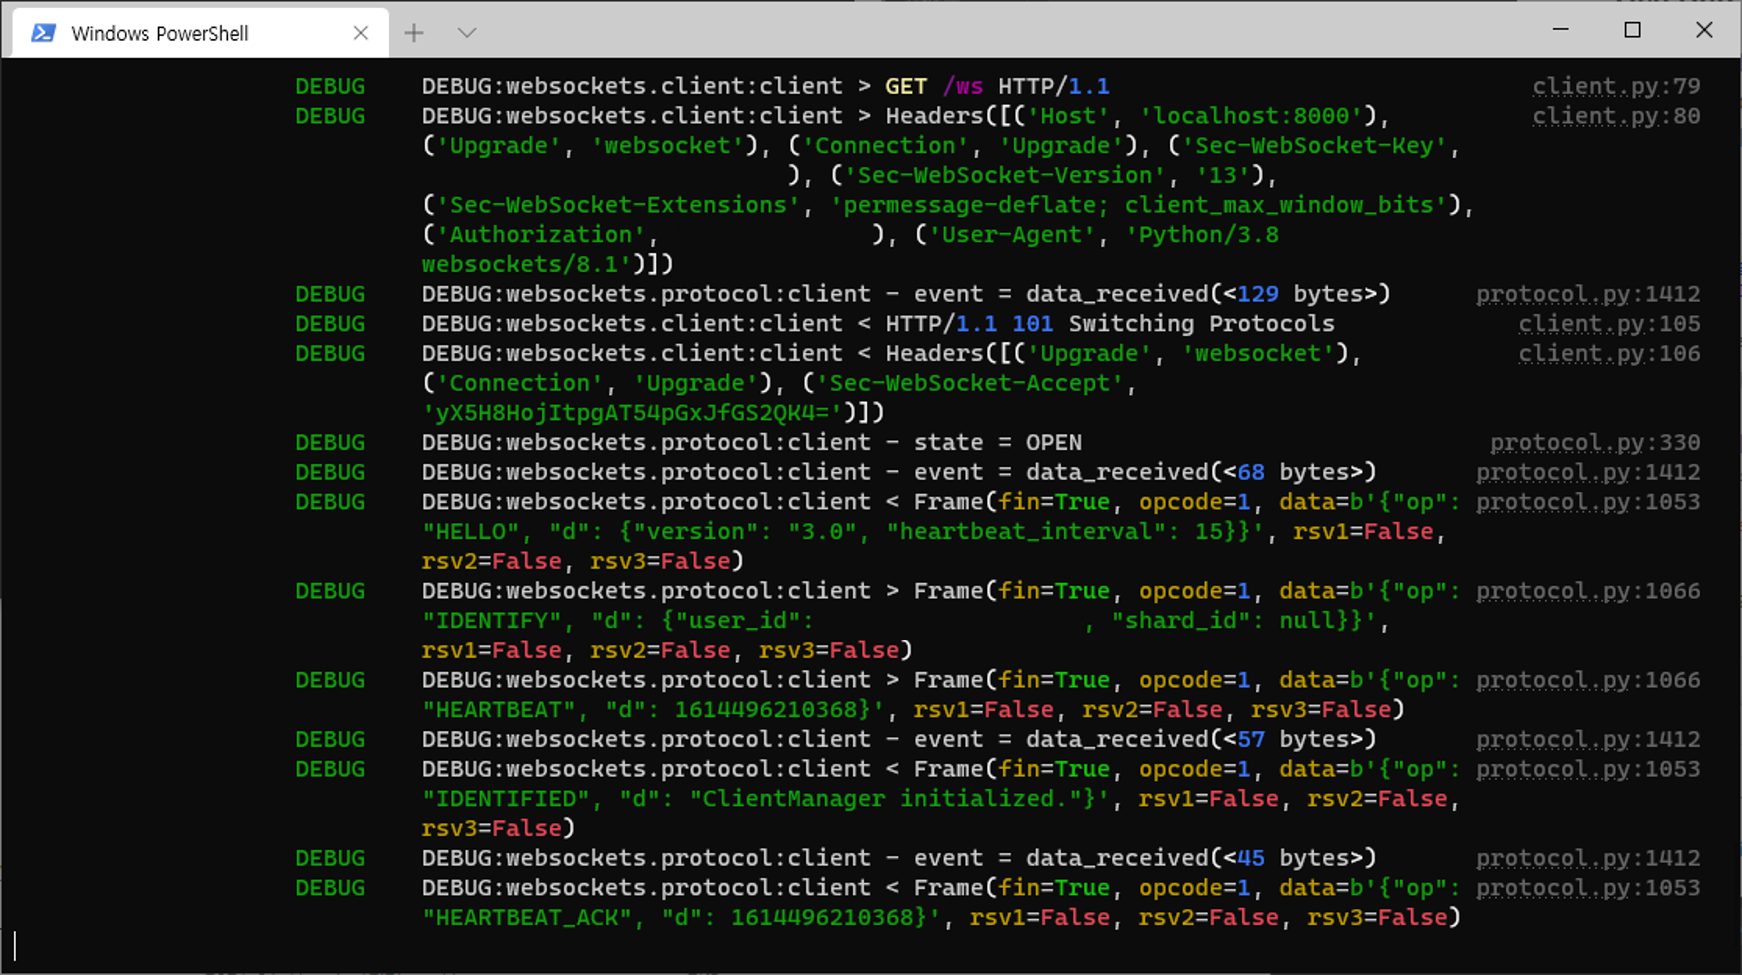
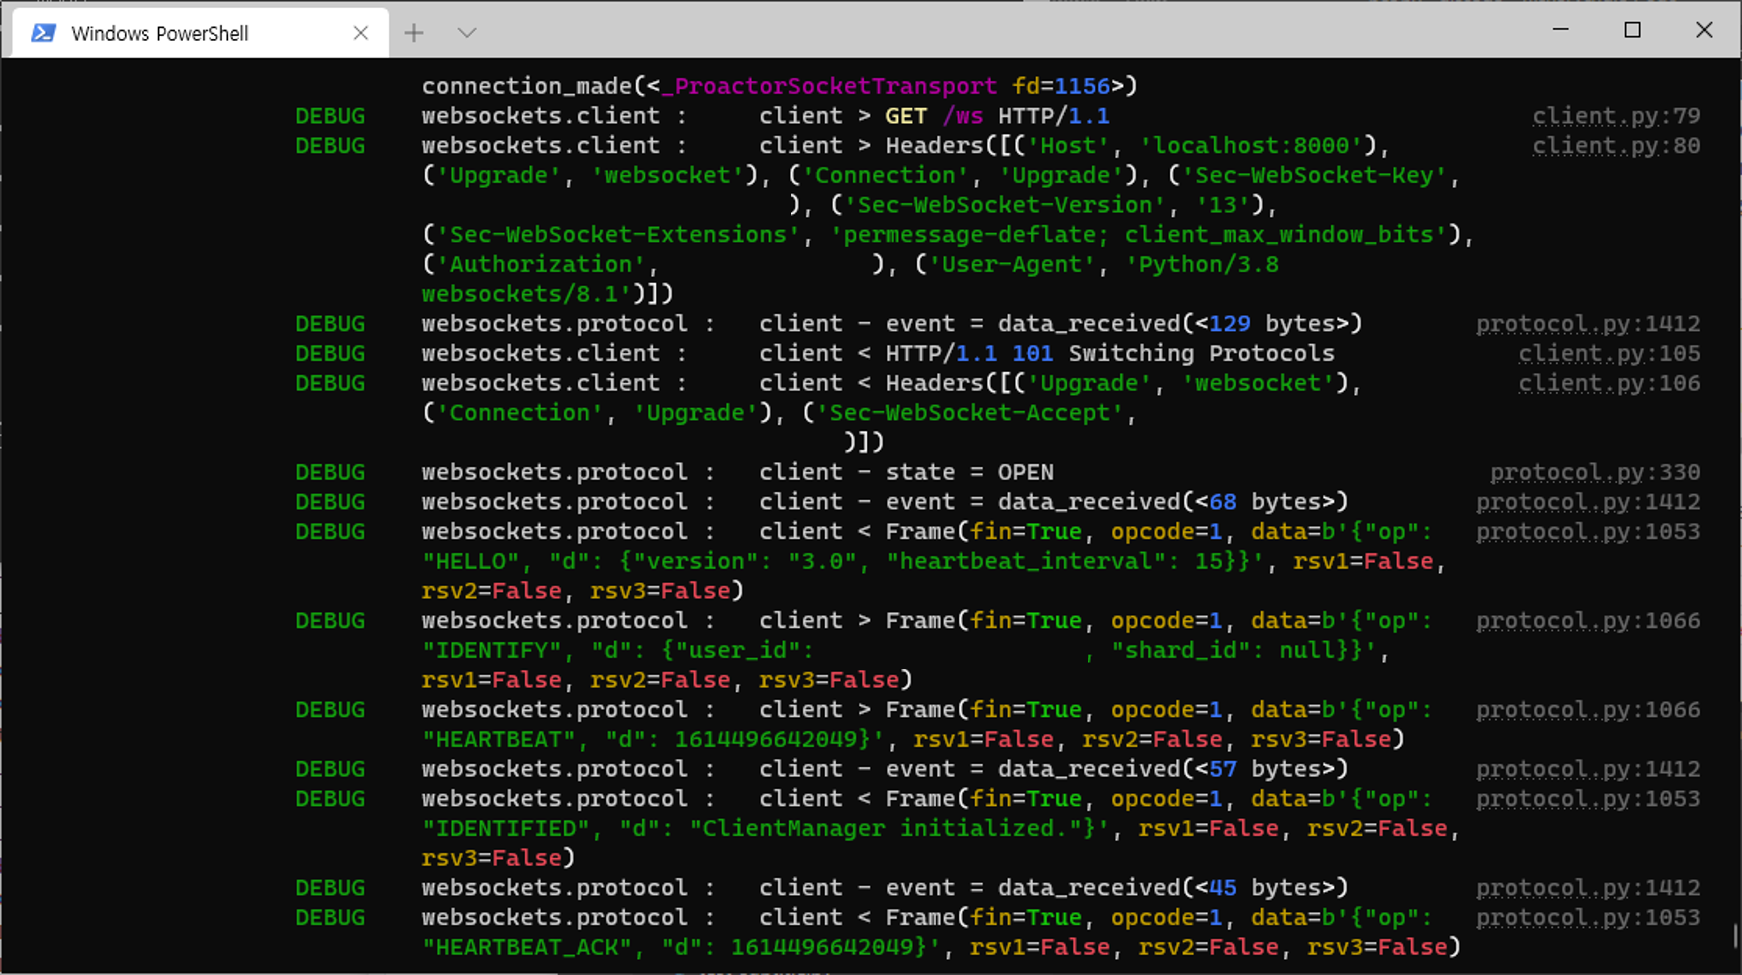
Add name to format

diff --git a/docs/introduction/logging.rst b/docs/introduction/logging.rst
@@ -33,7 +33,7 @@ Also, discodo_ uses rich_ to improve log readability. rich_ is an library for ri
     import logging
     from rich.logging import RichHandler
 
-    logging.basicConfig(level=logging.INFO, format="%(message)s", handlers=[RichHandler(rich_tracebacks=True)])
+    logging.basicConfig(level=logging.INFO, format="%(name)s :\t%(message)s", handlers=[RichHandler(rich_tracebacks=True)])
 
 Because rich_ displays the ``log level`` separately, remove the ``level`` from the ``format`` argument, and set ``rich_tracebacks`` to ``True`` for formatting tracebacks.
 
